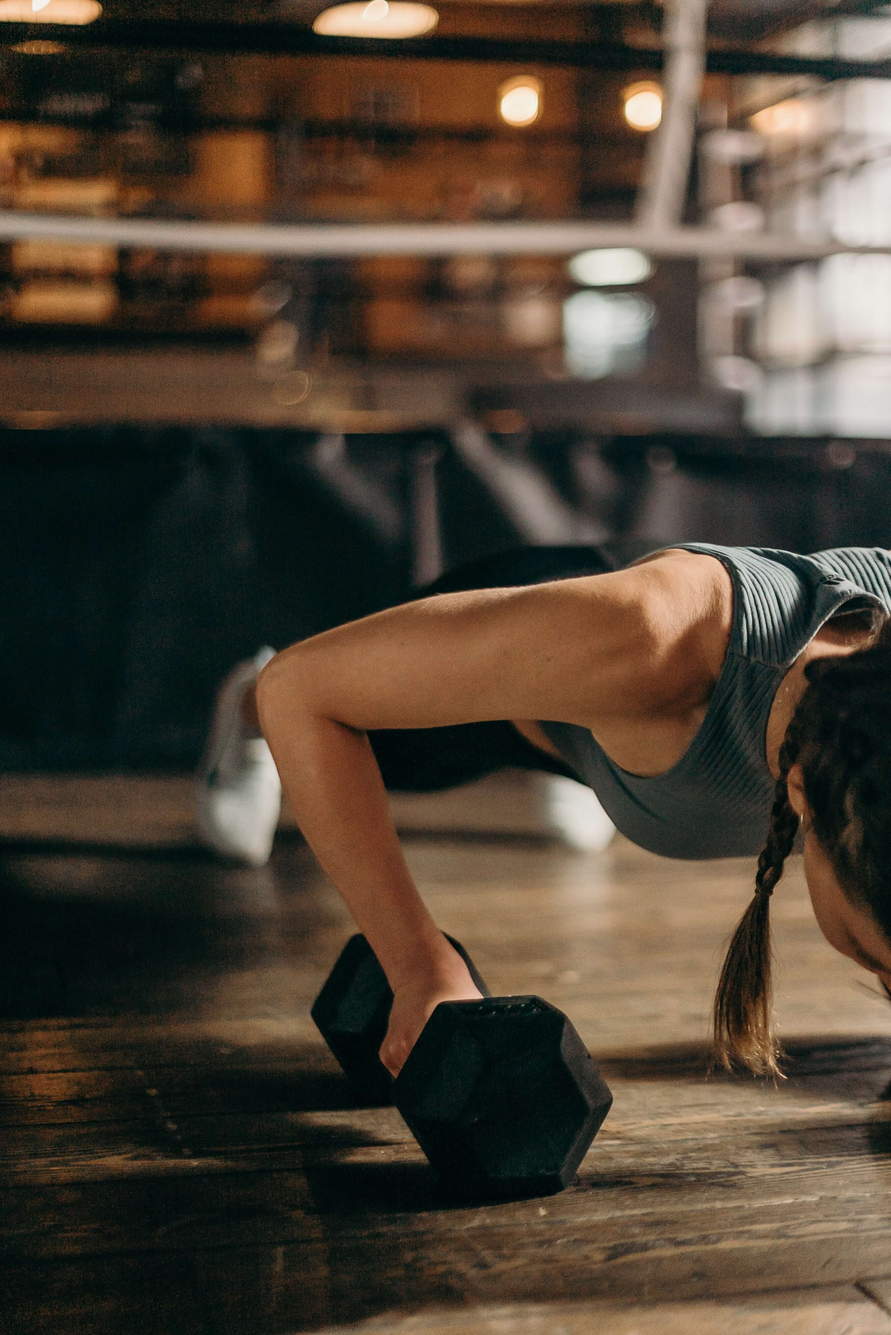
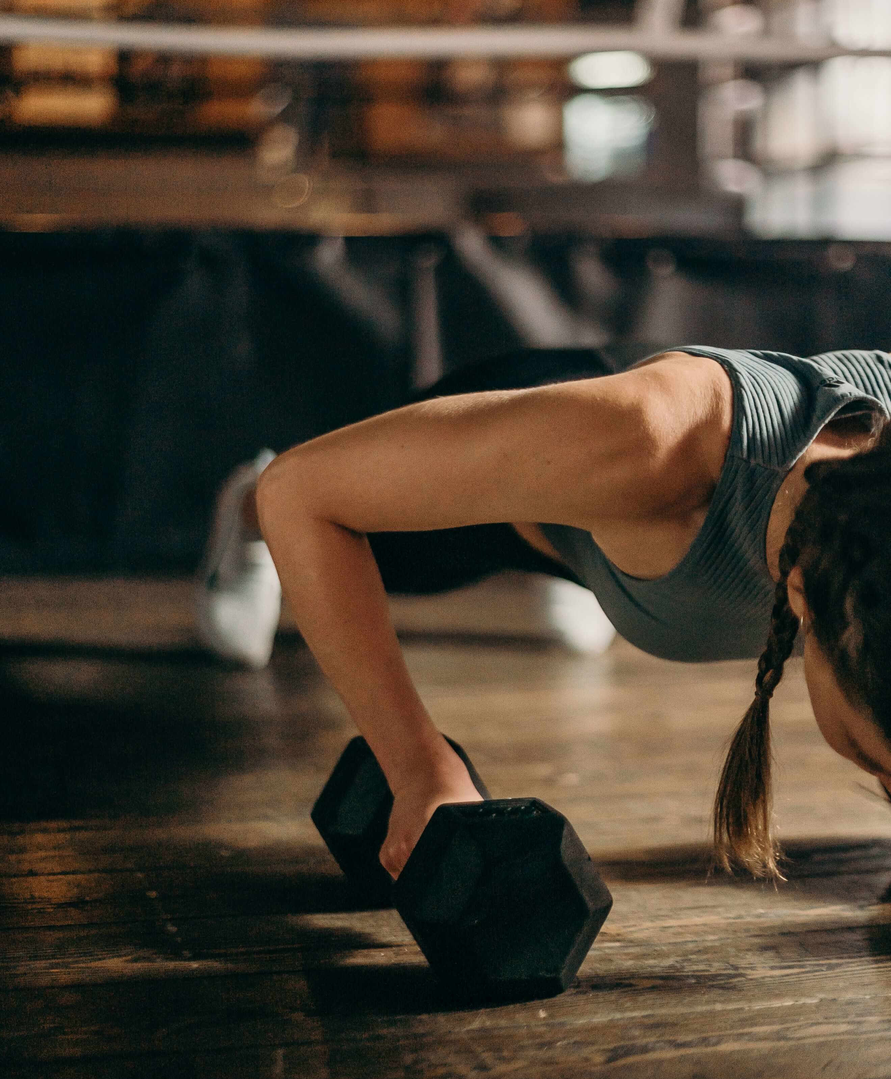
final contacts +mobile

diff --git a/contacts.html b/contacts.html
@@ -1,0 +1,53 @@
+<!DOCTYPE html>
+<html lang="en">
+<head>
+  <meta charset="UTF-8">
+  <meta name="viewport" content="width=device-width, initial-scale=1.0">
+  <meta name="keywords" content="charity, html, css">
+  <meta name="author" content="Natalia Linkova">
+  <title>ML Strength</title>
+  <link rel="stylesheet" href="./css/style.css">
+  <link rel="stylesheet" href="./css/mobile.css">
+  <link rel="stylesheet" href="https://cdnjs.cloudflare.com/ajax/libs/font-awesome/5.8.2/css/all.min.css">
+  <script src="./js/script.js" defer></script>
+</head>
+<body>
+  <header id="header"></header> 
+  <main>
+    <section class="intro">
+      <h1 class="intro__title">Contact Us</h1>
+      <p class="intro__subtitle">We are open 24:7. YOU can now train any time you like, weekdays, weekends & public holidays. WE ARE OPEN!
+        Unlike other so called 24:7 gyms, we are staffed all the time. If you need a late night workout, a protein bar or shake,
+        supplements or a cool t-shirt, we are open for you. Our class times change constantly so check out on the web site for the
+        timetable at each of our clubs.</p>
+    </section>
+    <section class="about">
+        <div class="contact">
+            <div>
+                <div class="about__parag">
+                    <h2 class="about__title">Call us</h2>
+                    <p class="about__text">You'll be directed to your closest club.</p>
+                    <p class="about__text">1340 367 723545</p>
+                </div>
+                <div class="about__parag">
+                    <h2 class="about__title">Email us</h2>
+                    <div class="container">
+                        <form>
+                          <label for="fname">First Name</label>
+                          <input type="text" id="fname" name="firstname" placeholder="Your name..">                      
+                          <label for="lname">Last Name</label>
+                          <input type="text" id="lname" name="lastname" placeholder="Your last name..">                    
+                          <label for="subject">Subject</label>
+                          <textarea id="subject" name="subject" placeholder="Write something.."></textarea>                      
+                          <input type="submit" value="Submit">
+                        </form>
+                    </div>
+                </div>
+            </div>
+            <img class="contact__img" src="./images/pexels-cottonbro-4753996.jpg" alt="photo of a sportswoman">
+        </div>
+    </section>
+  </main>
+  <footer id="footer"></footer>
+</body>
+</html>

diff --git a/css/style.css b/css/style.css
@@ -209,6 +209,53 @@ h2 {
     text-align: left;
 }
 
+.contact {
+    display: flex;    
+    justify-content: center;
+    align-items: center;
+    margin: 10px;
+}
+
+
+.contact__img {
+    width: 50%;
+}
+
+input[type=text], select, textarea {
+    width: 100%;
+    padding: 12px;
+    border: 1px solid #ccc;
+    border-radius: 4px;
+    box-sizing: border-box;
+    margin-top: 6px;
+    margin-bottom: 16px;
+    resize: vertical;
+}
+  
+input[type=submit] {
+    background-color: #1c3a5f;
+    color: white;
+    padding: 12px 20px;
+    border: none;
+    border-radius: 4px;
+    cursor: pointer;
+}
+  
+input[type=submit]:hover {
+    background-color: #5885bb;
+}
+  
+.container {
+    margin: 10px;
+    border-radius: 5px;
+    background-color: #f2f2f2;
+    padding: 20px;
+}
+
+textarea {
+    height: 100px;
+}
+
 footer {
     background-color: #1c3a5f;
     padding: 15px;

diff --git a/css/mobile.css b/css/mobile.css
@@ -18,6 +18,12 @@
         line-height: 30px;
     }
 
+    .intro__subtitle {
+        max-width: 520px;
+        font-size: 18px;
+        line-height: 20px;
+    }
+
     .header__title {
         max-width: 400px;
         font-weight: 700;
@@ -104,6 +110,14 @@
     .classes__text {
         margin: 10px;
         max-width: 520px;
+    }
+
+    .contact__img {
+        display: none;
+    }
+
+    input[type=submit] {
+        width: 100%;
     }
     
 }

diff --git a/footer.html b/footer.html
@@ -9,7 +9,7 @@
       </ul>
     </nav>
     <ul class="footer__contacts">
-      <li><p class="footer__list">Phone 0407 316 144</p></li>
+      <li><p class="footer__list">Phone 1340 367 723545</p></li>
       <li><p class="footer__list">Email info@ml_strength.au</p></li>
       <li><p class="footer__list footer__list_mobile">&copy;ML Strength, 2021. Natalia Linkova</p></li>
     </ul>    
